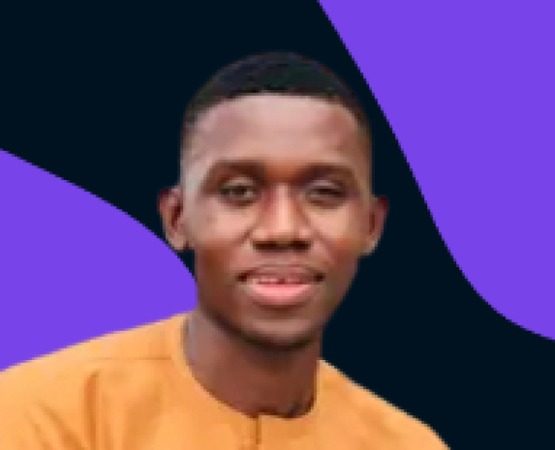
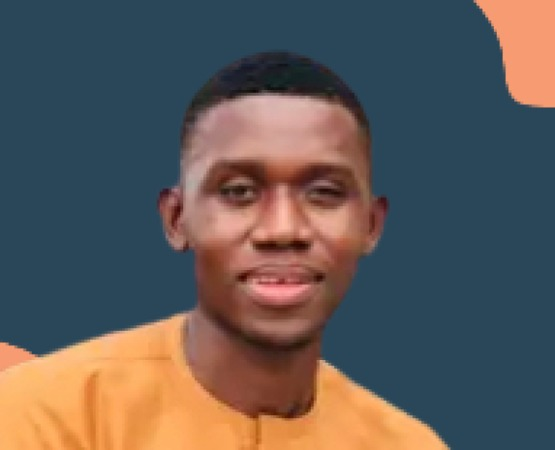
Added About me and Projects section

diff --git a/index.html b/index.html
@@ -18,8 +18,7 @@
     <title>Joseph Obanovwe</title>
 </head>
 <body>
-    <header>
-        <nav class="navbar navbar-expand-sm shadow ">
+        <nav class="navbar navbar-expand-sm shadow sticky-top">
             <div class="container-fluid">
                 <a class="navbar-brand ms-2" href="#">
                     <img src="/assests/img/Joseph.jpg" alt="Avatar Logo" style="width:55px;" class="rounded-circle"> 
@@ -28,16 +27,16 @@
                     <button class="navbar-toggler" type="button" data-bs-toggle="collapse" data-bs-target="#collapsibleNavbar">
                     <span class="navbar-toggler-icon"></span>
                     </button>
-                    <div class="collapse navbar-collapse" >
+                    <div class="collapse navbar-collapse" id="collapsibleNavbar">
                         <ul class="navbar-nav ms-auto">
                             <li class="nav-item me-5">
-                            <a class="nav-link" href="#">Home</a>
+                            <a class="nav-link" href="index.html">Home</a>
                             </li>
                             <li class="nav-item me-5">
-                            <a class="nav-link" href="#">About</a>
+                            <a class="nav-link" href="#about">About</a>
                             </li>
                             <li class="nav-item me-5">
-                            <a class="nav-link" href="#">Project</a>
+                            <a class="nav-link" href="#projects">Project</a>
                             </li> 
                              <li class="nav-item me-5">
                             <a class="nav-link" href="#">Contact</a>
@@ -46,20 +45,100 @@
                     </div>
             </div>
         </nav> 
-    </header>
     <!-- hero -->
      <section id="hero">
         <div class="container text-center">
             <h1 class="pt-5">Hey, I'm Joseph Obanovwe</h1>
-            <p class="mt-5">A Result-Oriented Web Developer building and managing Websites and Web Applications that leads to the success of the overall product</p>
+            <p class="mt-5">A Result-Oriented Web Developer building and <br> managing Websites and Web Applications that leads to the success of the overall product</p>
             <button class="mt-5">Projects</button>
         </div>
         <div class="head-floater shadow">
-            <i class="fa-brands fa-linkedin"></i>
-            <i class="fa-brands fa-twitter"></i>
-            <i class="fa-brands fa-github"></i>
+            <a href="https://www.linkedin.com/in/joseph-obanovwe-481a7130a?utm_source=share&utm_campaign=share_via&utm_content=profile&utm_medium=android_app"><i class="fa-brands fa-linkedin"></i> </a>
+            <a href=""><i class="fa-brands fa-twitter"></i></a>
+            <a href="https://github.com/joekaro"> <i class="fa-brands fa-github"></i></a>
         </div>
      </section>
+     <!-- About Me -->
+      <section id="about">
+        <div class="container text-center pb-4">
+            <h1 class="mb-3">About Me</h1>
+            <div class="line mb-3"></div>
+            <p>Here you will find more information about me, <br> what I do, and my current skills mostly in terms of programming and technology</p>
+        </div>
+        <div class="container mt-5">
+            <div class="row g-4">
+                <div class="left col-sm-12 col-md-6">
+                    <h3 class="mb-4">Get to know me!</h3>
+                    <p>I'm a Frontend Focused Web Developer building and managing the Front-end of Websites and Web Applications that leads to the success of the overall product. Check out some of my work in the Projects section.</p>
+                    <p>
+                        I also like sharing content related to the stuff that I have learned over the years in Web Development so it can help other people of the Dev Community. Feel free to Connect or Follow me on my Linkedin and Instagram where I post useful content related to Web Development and Programming
+                    </p>
+                    <p>
+                        I'm open to Job opportunities where I can contribute, learn and grow. If you have a good opportunity that matches my skills and experience then don't hesitate to contact me.
+                    </p>
+                    <button class="mt-2">Contact</button>
+                </div>
+                <div class="right col-sm-12  col-md-6">
+                    <h3 class="mb-4">My Skills</h3>
+                    <button class="btn">HTML</button>
+                    <button class="btn">CSS</button>
+                    <button class="btn">JAVASCRIPT</button>
+                    <button class="btn">GIT</button>
+                    <button class="btn">GITHUB</button>
+                    <button class="btn">RESPONSIVE DESIGN</button>
+                    <button class="btn">SEO</button>
+                    <button class="btn">TERMINAL</button>
+                </div>
+            </div>
+        </div>
+      </section>
+
+      <!-- Projects -->
+      <section id="projects">
+        <div class="container text-center pb-4">
+            <h1 class="mb-3">PROJECTS</h1>
+            <div class="line mb-3"></div>
+            <p>Here you will find some of the personal and clients <br> projects that I created with each project containing its own case study</p>
+        </div>
+        <div class="container mt-5">
+            <div class="row mb-5 g-3">
+                <div class="left col-sm-12 col-md-7">
+                    <img src="/assests/img/Project1.PNG" class="img-fluid" alt="CoderHub Project">
+                </div>
+                <div class="right col-sm-12  col-md-5">
+                    <h3 class="mb-3">CoderHub</h3>
+                    <p class="text-muted">CoderHub is a successful Open-Source project that I created which have been featured on some of the biggest tech sites like CSS-Tricks, Hostinger, etc & used by thousands of developers globally</p>
+                </div>
+            </div>
+            <div class="row mb-5 g-3">
+                <div class="left col-sm-12 col-md-7">
+                    <img src="/assests/img/project2.PNG" class="img-fluid" alt="Dogger Project">
+                </div>
+                <div class="right col-sm-12  col-md-5">
+                    <h3 class="mb-3">Dogger</h3>
+                    <p class="text-muted">Dogger is a successful Open-Source project that I created which have been featured on some of the biggest tech sites like CSS-Tricks, Hostinger, etc & used by thousands of developers globally</p>
+                </div>
+            </div>
+            <div class="row g-3">
+                <div class="left col-sm-12 col-md-7">
+                    <img src="/assests/img/project3.PNG" class="img-fluid" alt=" Villa project">
+                </div>
+                <div class="right col-sm-12  col-md-5">
+                    <h3 class="mb-3">Villa</h3>
+                    <p class="text-muted">Villa is a successful Open-Source project that I created which have been featured on some of the biggest tech sites like CSS-Tricks, Hostinger, etc & used by thousands of developers globally</p>
+                </div>
+            </div>
+        </div>
+      </section>
+      <!-- Contact Us -->
+
+
+
+
+
+
+
+     
 
 
 
@@ -77,7 +156,7 @@
 
 
     <!-- bootstrap -->
-    <script src="https://cdn.jsdelivr.net/npm/bootstrap@5.3.6/dist/js/bootstrap.bundle.min.js" integrity="sha384-j1CDi7MgGQ12Z7Qab0qlWQ/Qqz24Gc6BM0thvEMVjHnfYGF0rmFCozFSxQBxwHKO" crossorigin="anonymous"></script>
+    <script src="https://cdn.jsdelivr.net/npm/bootstrap@5.3.7/dist/js/bootstrap.bundle.min.js" integrity="sha384-ndDqU0Gzau9qJ1lfW4pNLlhNTkCfHzAVBReH9diLvGRem5+R9g2FzA8ZGN954O5Q" crossorigin="anonymous"></script>
     <!-- AOS -->
     <script src="https://unpkg.com/aos@2.3.1/dist/aos.js"></script>
 </body>

diff --git a/assests/css/styles.css b/assests/css/styles.css
@@ -1,35 +1,53 @@
 :root{
-    --main-color:#f3eded;
-    --secodary:#FFFFFF;
-    --btn-color:#7843E9;
+    --main-color:#EEEEEE;
+    --secodary:#F7F7F7;
+    --btn-color:#2A4759;
+    --style:#F79B72;
+    --text-color:#333;
+    --black: #000;
+    --white: #fff;
 }
-header nav{
-    height: 14vh;
+.line{
+    width: 40px;
+    height: 6px;
+    background: var(--btn-color);
+    margin: 0 auto;
+    border-radius: 5px;
+}
+
+h1{
+    text-transform: uppercase;
+    font-weight: bold;
+}
+ h3{
+    font-weight: bold;
+}
+
+/* Nav */
+nav{
     background: #FFFF;
 }
-header nav .navbar-brand{
+nav .navbar-brand{
     font-size: 1rem;
     font-weight: bold;
     text-transform: uppercase;
 }
-header nav ul li{
+nav ul li{
     font-weight: bold;
     font-size: 1rem;
     text-transform: uppercase;
 }
-header nav ul li a:hover{
+nav ul li a:hover{
     color: var(--btn-color) !important;
 }
 #hero{
-    /* background-image: url(/assests/img/bg-hero.png); */
-    /* background: rgba(246, 246, 246, 0.1); */
     background: var(--main-color);
     width: 100%;
-    height: 90vh;
+    height: 70vh;
     position: relative;
+    padding-top: 50px;
 }
 #hero h1{
-    /* font-size: 3.5rem; */
     text-transform: uppercase;
     font-weight: bold;
 }
@@ -55,11 +73,11 @@ header nav ul li a:hover{
 }
 #hero .head-floater{
     width: 60px;
-    height: 180px;
+    height: 190px;
     background:#fff;
     position: absolute;
     left: 20;
-    top: 190px;
+    top: 50px;
     display: flex;
     flex-direction: column;
     justify-content:center;
@@ -71,10 +89,63 @@ header nav ul li a:hover{
     font-size: 1.8rem;
     padding: 8px;
 }
+#hero .head-floater a{
+    color: var(--text-color);
+}
 #hero .head-floater i:hover{
     background: var(--main-color);
     transition: all .3s ease-in-out;
 }
+
+/* about */
+#about{
+    background: var(--secodary);
+    height: auto;
+    padding: 100px 0;
+}
+
+#about .left p{
+    font-weight: 470;
+    text-align: justify;
+}
+#about .left button{
+    background: var(--btn-color);
+    color: #fff;
+    padding: 9px 45px;
+    border: none;
+    border-radius: 5px;
+    font-size: 1.2rem;
+    font-weight: bold;
+    text-transform: uppercase;
+}
+#about button:hover{
+    transform: scale(1);
+    transition: all .3s ease-in-out;
+}
+#about .right button{
+    background: var(--main-color);
+    margin-bottom: 15px;
+    margin-right: 7px;
+    color: var(--text-color);
+    font-weight: 500;
+}
+
+/* Projects */
+#projects{
+    background:var(--main-color);
+    padding: 100px 0;
+    height: auto;
+}
+#projects img{
+    width: 500px;
+    height: 260px;
+}
+
+
+
+
+
+
 
 
 /* Screen 600px */
